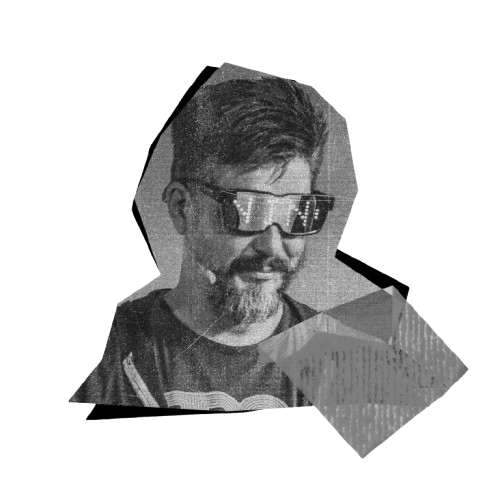
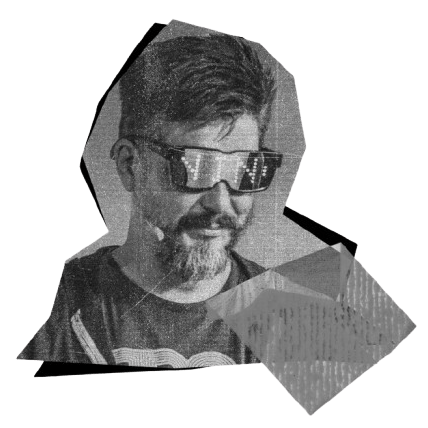
fix stupid bars

Changed region(s): [[0.0304, 0.0304, 0.972, 0.972], [0.6682, 0.5771, 0.6986, 0.6075], [0.6379, 0.5467, 0.6682, 0.5771]]

diff --git a/assets/styles.css b/assets/styles.css
@@ -418,17 +418,36 @@ input:focus {
 
 /* Section dividers */
 .section-divider {
+  display: block;
+  width: 100%;
+  /* transform: translateZ(0px); */
+  z-index: 10;
+  /* overflow: clip; */
+  position: relative;
+  height: 0px;
+  background: none;
+  overflow-x: clip;
+}
+.section-divider:after {
+  content: ' ';
   --n: clamp(32px, 10vw, 80px);
   margin: 0 auto;
   user-select: none;
-  transform: rotate(-2deg) translateY(var(--n));
+  transform: rotate(-2deg);
+  /* translateY(var(--n)); */
   height: clamp(32px, 10vw, 80px);
-  position: relative;
-  z-index: 5;
+  position: absolute;
+  top: 0;
+  left: 0;
+  width: 110vw;
+  z-index: 100000;
   padding: 0;
   background-image: url(/images/cut.svg);
   background-repeat: repeat-x;
   background-size: contain;
+  margin-left: -20px;
+  /* overflow: clip; */
+  display: block;
 }
 
 /* ======================== SCHEDULE ======================== */
@@ -802,9 +821,9 @@ li:has(span) {
   }
 }
 
-#locations + .section-divider {
+#locations + .section-divider:after {
   --n: clamp(32px, 10vw, 80px);
-  transform: rotate(2deg) translateY(var(--n));
+  transform: rotate(2deg);
 }
 
 /* ======================== SPONSORS ======================== */